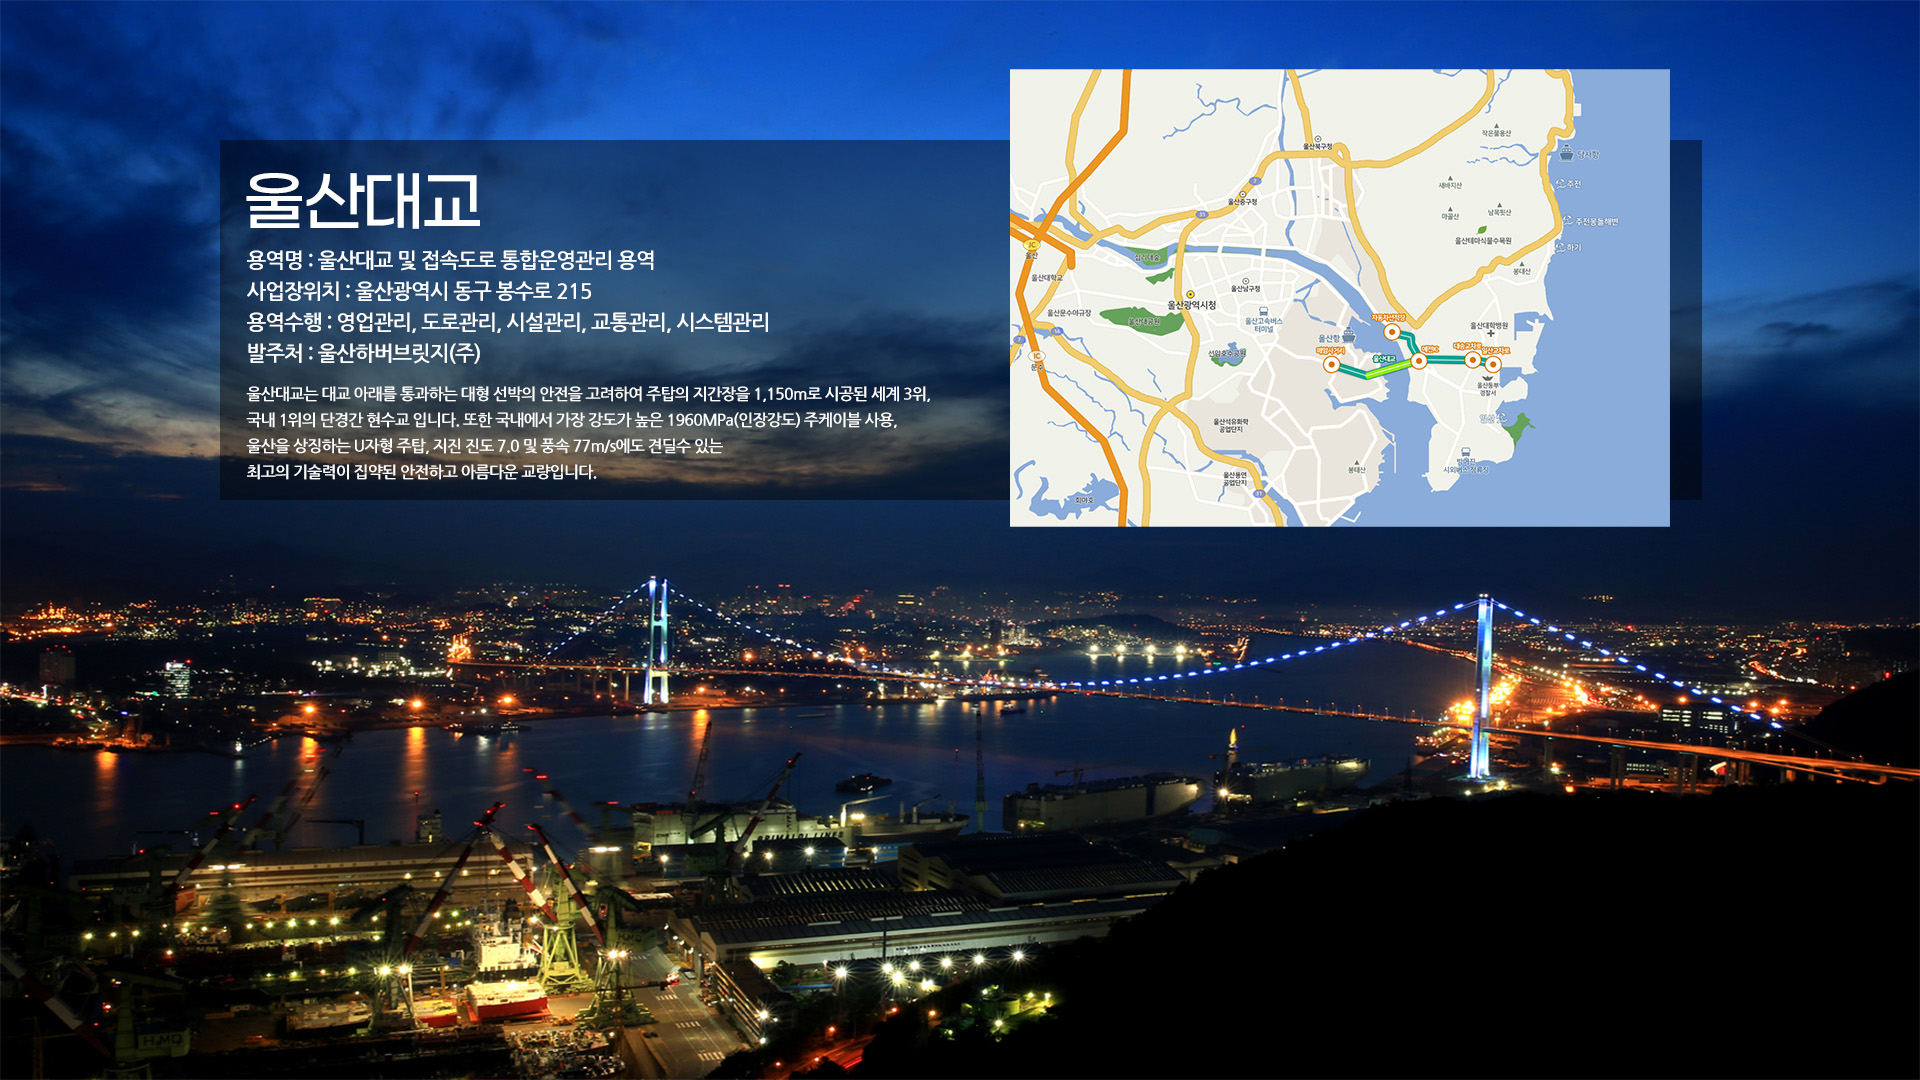
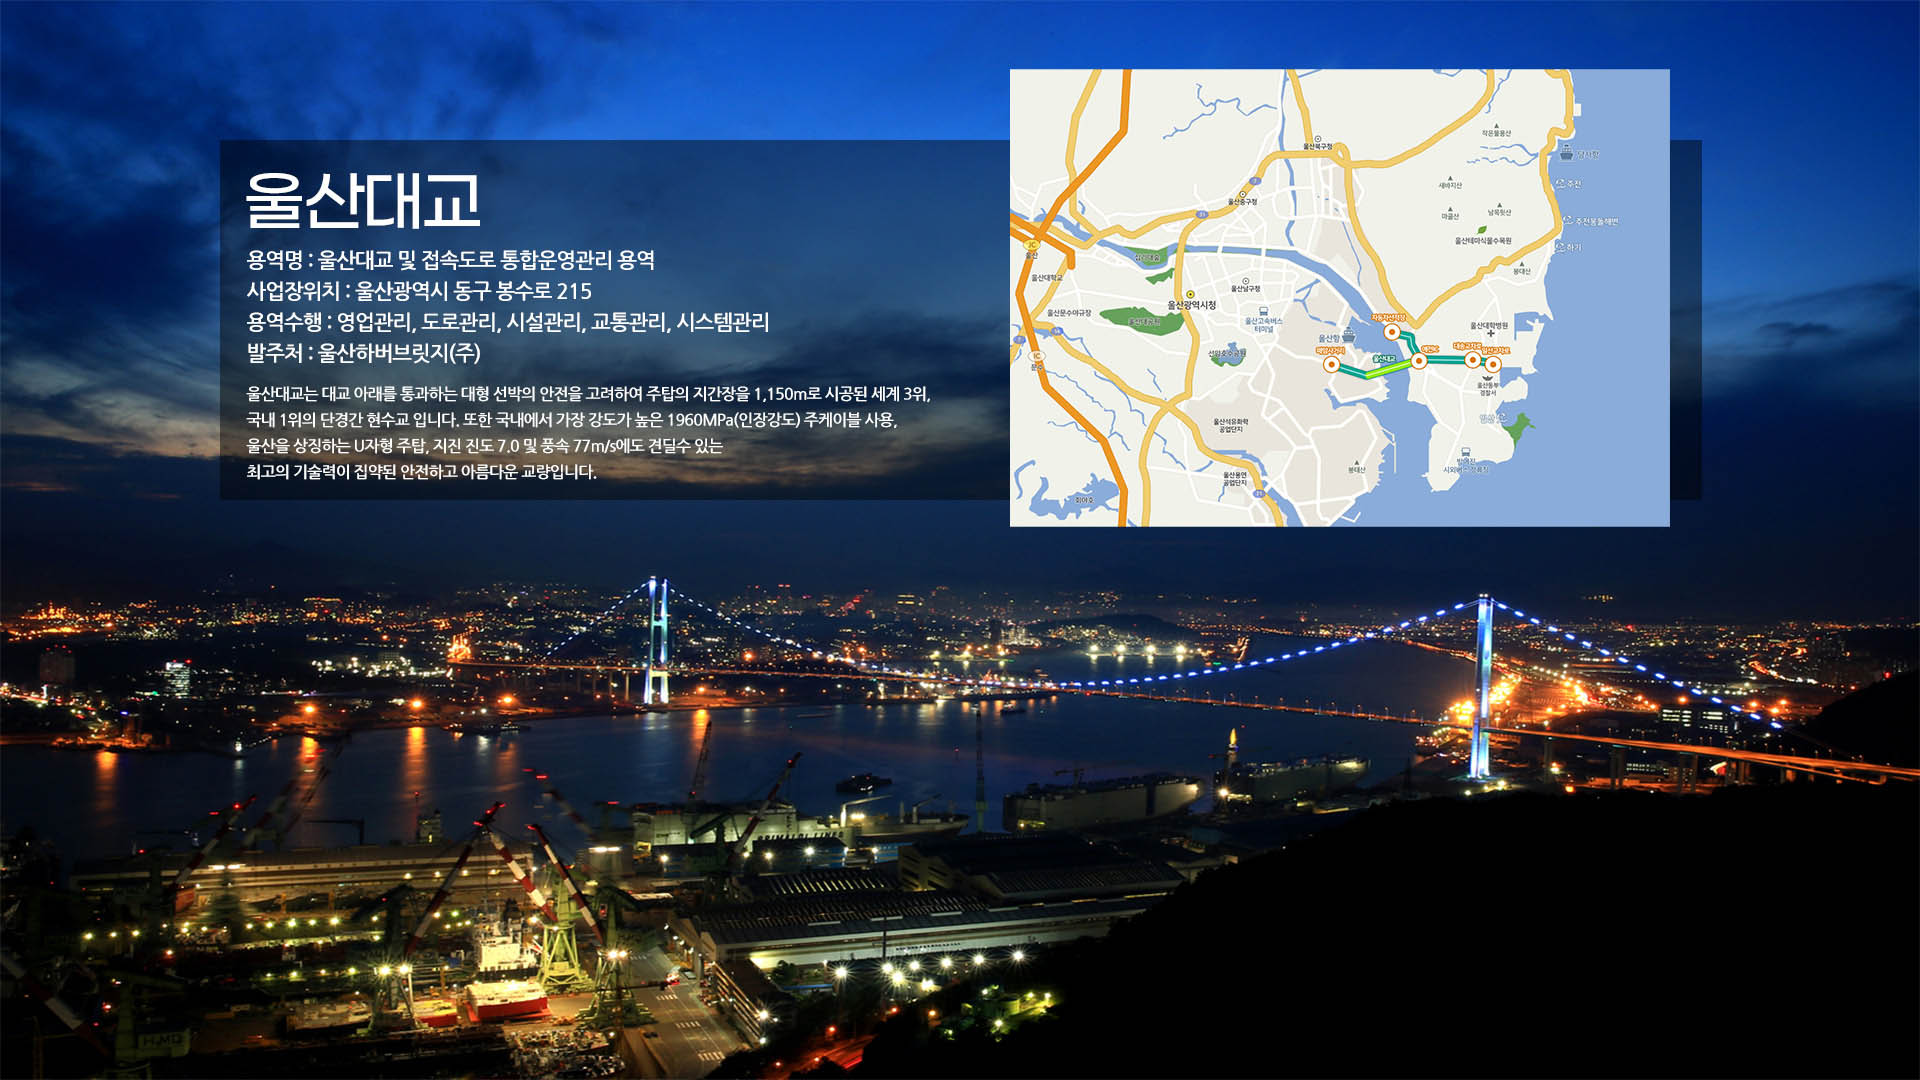
부동산 사업페이지 업데이트,이미지압축
Former-commit-id: 7fd5c41c16fb8cc3f1b8df89958cef011b0ff30c

diff --git a/src/main/webapp/resource/js/common.js b/src/main/webapp/resource/js/common.js
@@ -20,7 +20,7 @@ $(document).ready(function() {
 		$('.div_record').find('span.po[class*=inf]').show(); // 인프라: param=2
 	} else if (param == "golf") { // 골프: param=3
 		$('.div_record').find('span.po[class*=g]').show(); // 부동산: param=4
-	} else if (param == "r") {
+	} else if (param == "asset") {
 		$('.div_record').find('span.po[class*=r]').show();
 	}
 
@@ -49,6 +49,35 @@ $(document).ready(function() {
 		pieChart("golf_data2", golf_data2, "#00ccff");
 		pieChart2("golf_data3", golf_data3, "#ff8a00");
 		
+		pieChart("infra_data1", infra_data1, "yellow");
+		pieChart("infra_data2", infra_data2, "#00ccff");
+		pieChart2("infra_data3", infra_data3, "#ff8a00");
+		
+		pieChart("ulsan_data1", ulsan_data1, "yellow");
+		pieChart("ulsan_data2", ulsan_data2, "#00ccff");
+		pieChart2("ulsan_data3", ulsan_data3, "#ff8a00");
+		
+		pieChart("yongseo_data1", yongseo_data1, "yellow");
+		pieChart("yongseo_data2", yongseo_data2, "#00ccff");
+		pieChart2("yongseo_data3", yongseo_data3, "#ff8a00");
+		
+		pieChart("chunnon_data1", chunnon_data1, "yellow");
+		pieChart("chunnon_data2", chunnon_data2, "#00ccff");
+		pieChart2("chunnon_data3", chunnon_data3, "#ff8a00");
+		
+		pieChart("kyungki_data1", kyungki_data1, "yellow");
+		pieChart("kyungki_data2", kyungki_data2, "#00ccff");
+		pieChart2("kyungki_data3", kyungki_data3, "#ff8a00");
+		
+		pieChart("sujeong_data1", sujeong_data1, "yellow");
+		pieChart("sujeong_data2", sujeong_data2, "#00ccff");
+		pieChart2("sujeong_data3", sujeong_data3, "#ff8a00");
+		
+		pieChart("asset_data1", asset_data1, "yellow");
+		pieChart("asset_data2", asset_data2, "#00ccff");
+		pieChart2("asset_data3", asset_data3, "#ff8a00");
+		
+		
 
 		
 		//월별 변화그래프
@@ -64,6 +93,10 @@ $(document).ready(function() {
 		lineChart("env_line2", env_line2);
 		lineChart2("env_line3", env_line3);
 		
+		lineChart("infra_line1", infra_line1);
+		lineChart("infra_line2", infra_line2);
+		lineChart2("infra_line3", infra_line3);
+		
 		lineChart("sudoe_line1", sudoe_line1);
 		lineChart("sudoe_line2", sudoe_line2);
 		lineChart2("sudoe_line3", sudoe_line3);
@@ -71,6 +104,10 @@ $(document).ready(function() {
 		lineChart("ilsung_line1", ilsung_line1);
 		lineChart("ilsung_line2", ilsung_line2);
 		lineChart2("ilsung_line3", ilsung_line3);
+		
+		lineChart("asset_line1", ilsung_line1);
+		lineChart("asset_line2", ilsung_line2);
+		lineChart2("asset_line3", ilsung_line3);
 		
 		/**************************  end *******************/
 

diff --git a/src/main/webapp/resource/css/style.css b/src/main/webapp/resource/css/style.css
@@ -178,14 +178,14 @@ table {
 .content_04{background-color:black;width:25%;height:94vh;float:left;}
 .content_50{background-color:white;width:50%;height:94vh;float:left;}/*50%차지하는컨텐츠*/
 
-.content_01-1{height:46%;padding: 2%;}
-.content_01-2{height:46%;background-color:#192f40;padding: 2%;}
+.content_01-1{height:48%;padding: 2%;}
+.content_01-2{height:44%;background-color:#192f40;padding: 2%;}
 .content_02-1{height:46%;padding: 2%;}
 .content_02-2{height:46%;padding: 2%;}
 .content_03-1{}
 .content_03-2{}
-.content_04-1{height:46%;padding: 2%;}
-.content_04-2{height:46%;padding: 2%;background-color:#153456;}
+.content_04-1{height:44%;padding: 2%;}
+.content_04-2{height:48%;padding: 2%;background-color:#153456;}
 
 
 /*차트*/
@@ -310,9 +310,7 @@ filter: progid:DXImageTransform.Microsoft.gradient( startColorstr='#437dab', end
 .inf3 {top: 323px; left: 156px;}
 .inf3 .po_photo {margin-top: 101px !important;}
 .inf4 {top: 641px; left: 544px;}
-.inf4 .po_photo {margin-top: 32px !important;}
 .inf5 {top: 631px; left: 405px;}
-.inf5 .po_photo {margin-top: 34px !important;}
 .inf6 {top: 605px; left: 610px;}
 .inf7 {top: 342px; left: 85px;}
 .inf7 .po_photo {margin-top: 45px !important;}
@@ -984,7 +982,11 @@ background: url(../images/env/video/video_m3_2.jpg) no-repeat 0 0;background-siz
     margin: 3px;
     margin-left: 55px;
     font-weight: bold;
-    font-size: 19px;}
+    font-size: 19px;
+    position: relative;    
+    left: -31px;
+    }
+.infra_iframe{width: 767px;position: relative;height: 460px;top: -42px;}
 
 .content01_main{background: url(/resource/images/main/environment1.jpg) no-repeat 100% 0%; background-size: 110%}
 .content01_env{background: url(/resource/images/main/environment.jpg) no-repeat 86% 53%; background-size: 110%}
